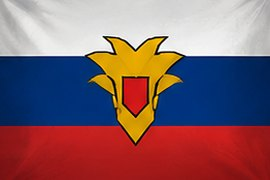
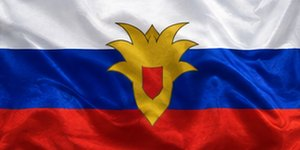
New waving-cloth flag artwork at 2:1
Replace the flag images with the new realistic cloth artwork, cropped to
2:1 keeping the hoist side (Australia keeps all its stars). Flags are now
shown at 2:1 in lists and the nation window.

Claude-Session: https://claude.ai/code/session_01FPxW8oHmfNUfR5sS2fu7oF

diff --git a/css/style.css b/css/style.css
@@ -260,10 +260,10 @@ label.field { display: block; margin: 18px 0 7px; font-size: 10.5px; color: var(
 
 /* Flags & nation history */
 .flag { display: inline-block; object-fit: cover; -webkit-user-drag: none; user-select: none; border-radius: 2px; box-shadow: 0 0 0 1px rgba(255,255,255,.15); vertical-align: middle; }
-.flag.mini { width: 21px; height: 14px; margin-right: 8px; position: relative; top: -1px; border-radius: 1.5px; box-shadow: 0 0 0 1px rgba(255,255,255,.1), 0 1px 3px rgba(0,0,0,.5); }
+.flag.mini { width: 24px; height: 12px; margin-right: 8px; position: relative; top: -1px; border-radius: 1.5px; box-shadow: 0 0 0 1px rgba(255,255,255,.1), 0 1px 3px rgba(0,0,0,.5); }
 .flag-hero { position: relative; display: inline-block; margin: -2px 0 14px; border-radius: 3px; overflow: hidden;
   box-shadow: 0 0 0 1px rgba(255,255,255,.14), 0 10px 26px rgba(0,0,0,.5); animation: flagIn .6s var(--ease) both; }
-.flag-hero .flag { display: block; width: 126px; height: 84px; border-radius: 0; box-shadow: none; }
+.flag-hero .flag { display: block; width: 150px; height: 75px; border-radius: 0; box-shadow: none; }
 /* A slow band of light drifting across the cloth. */
 .flag-hero::after { content: ''; position: absolute; inset: 0; pointer-events: none;
   background: linear-gradient(105deg, transparent 30%, rgba(255,255,255,.16) 45%, transparent 60%); background-size: 250% 100%;

diff --git a/sw.js b/sw.js
@@ -1,5 +1,5 @@
 // Offline cache. Bump VERSION when files change so phones pick up updates.
-var VERSION = 'ats-v29';
+var VERSION = 'ats-v30';
 var FILES = [
   './', './index.html', './css/style.css', './manifest.webmanifest',
   './js/util.js', './js/names.js', './js/data.js', './js/lore.js', './js/flags.js', './js/engine.js', './js/military.js', './js/research.js', './js/laws.js', './js/character.js', './js/mapdata.js', './js/territory.js', './js/actions.js', './js/events.js', './js/events-extra.js', './js/war.js', './js/space.js', './js/cabinet.js', './js/ui/kit.js', './js/ui/home.js', './js/ui/government.js', './js/ui/actions.js', './js/ui/economy.js', './js/ui/military.js', './js/ui/world.js', './js/ui/science.js', './js/ui/space.js', './js/ui/news.js', './js/ui/main.js',
